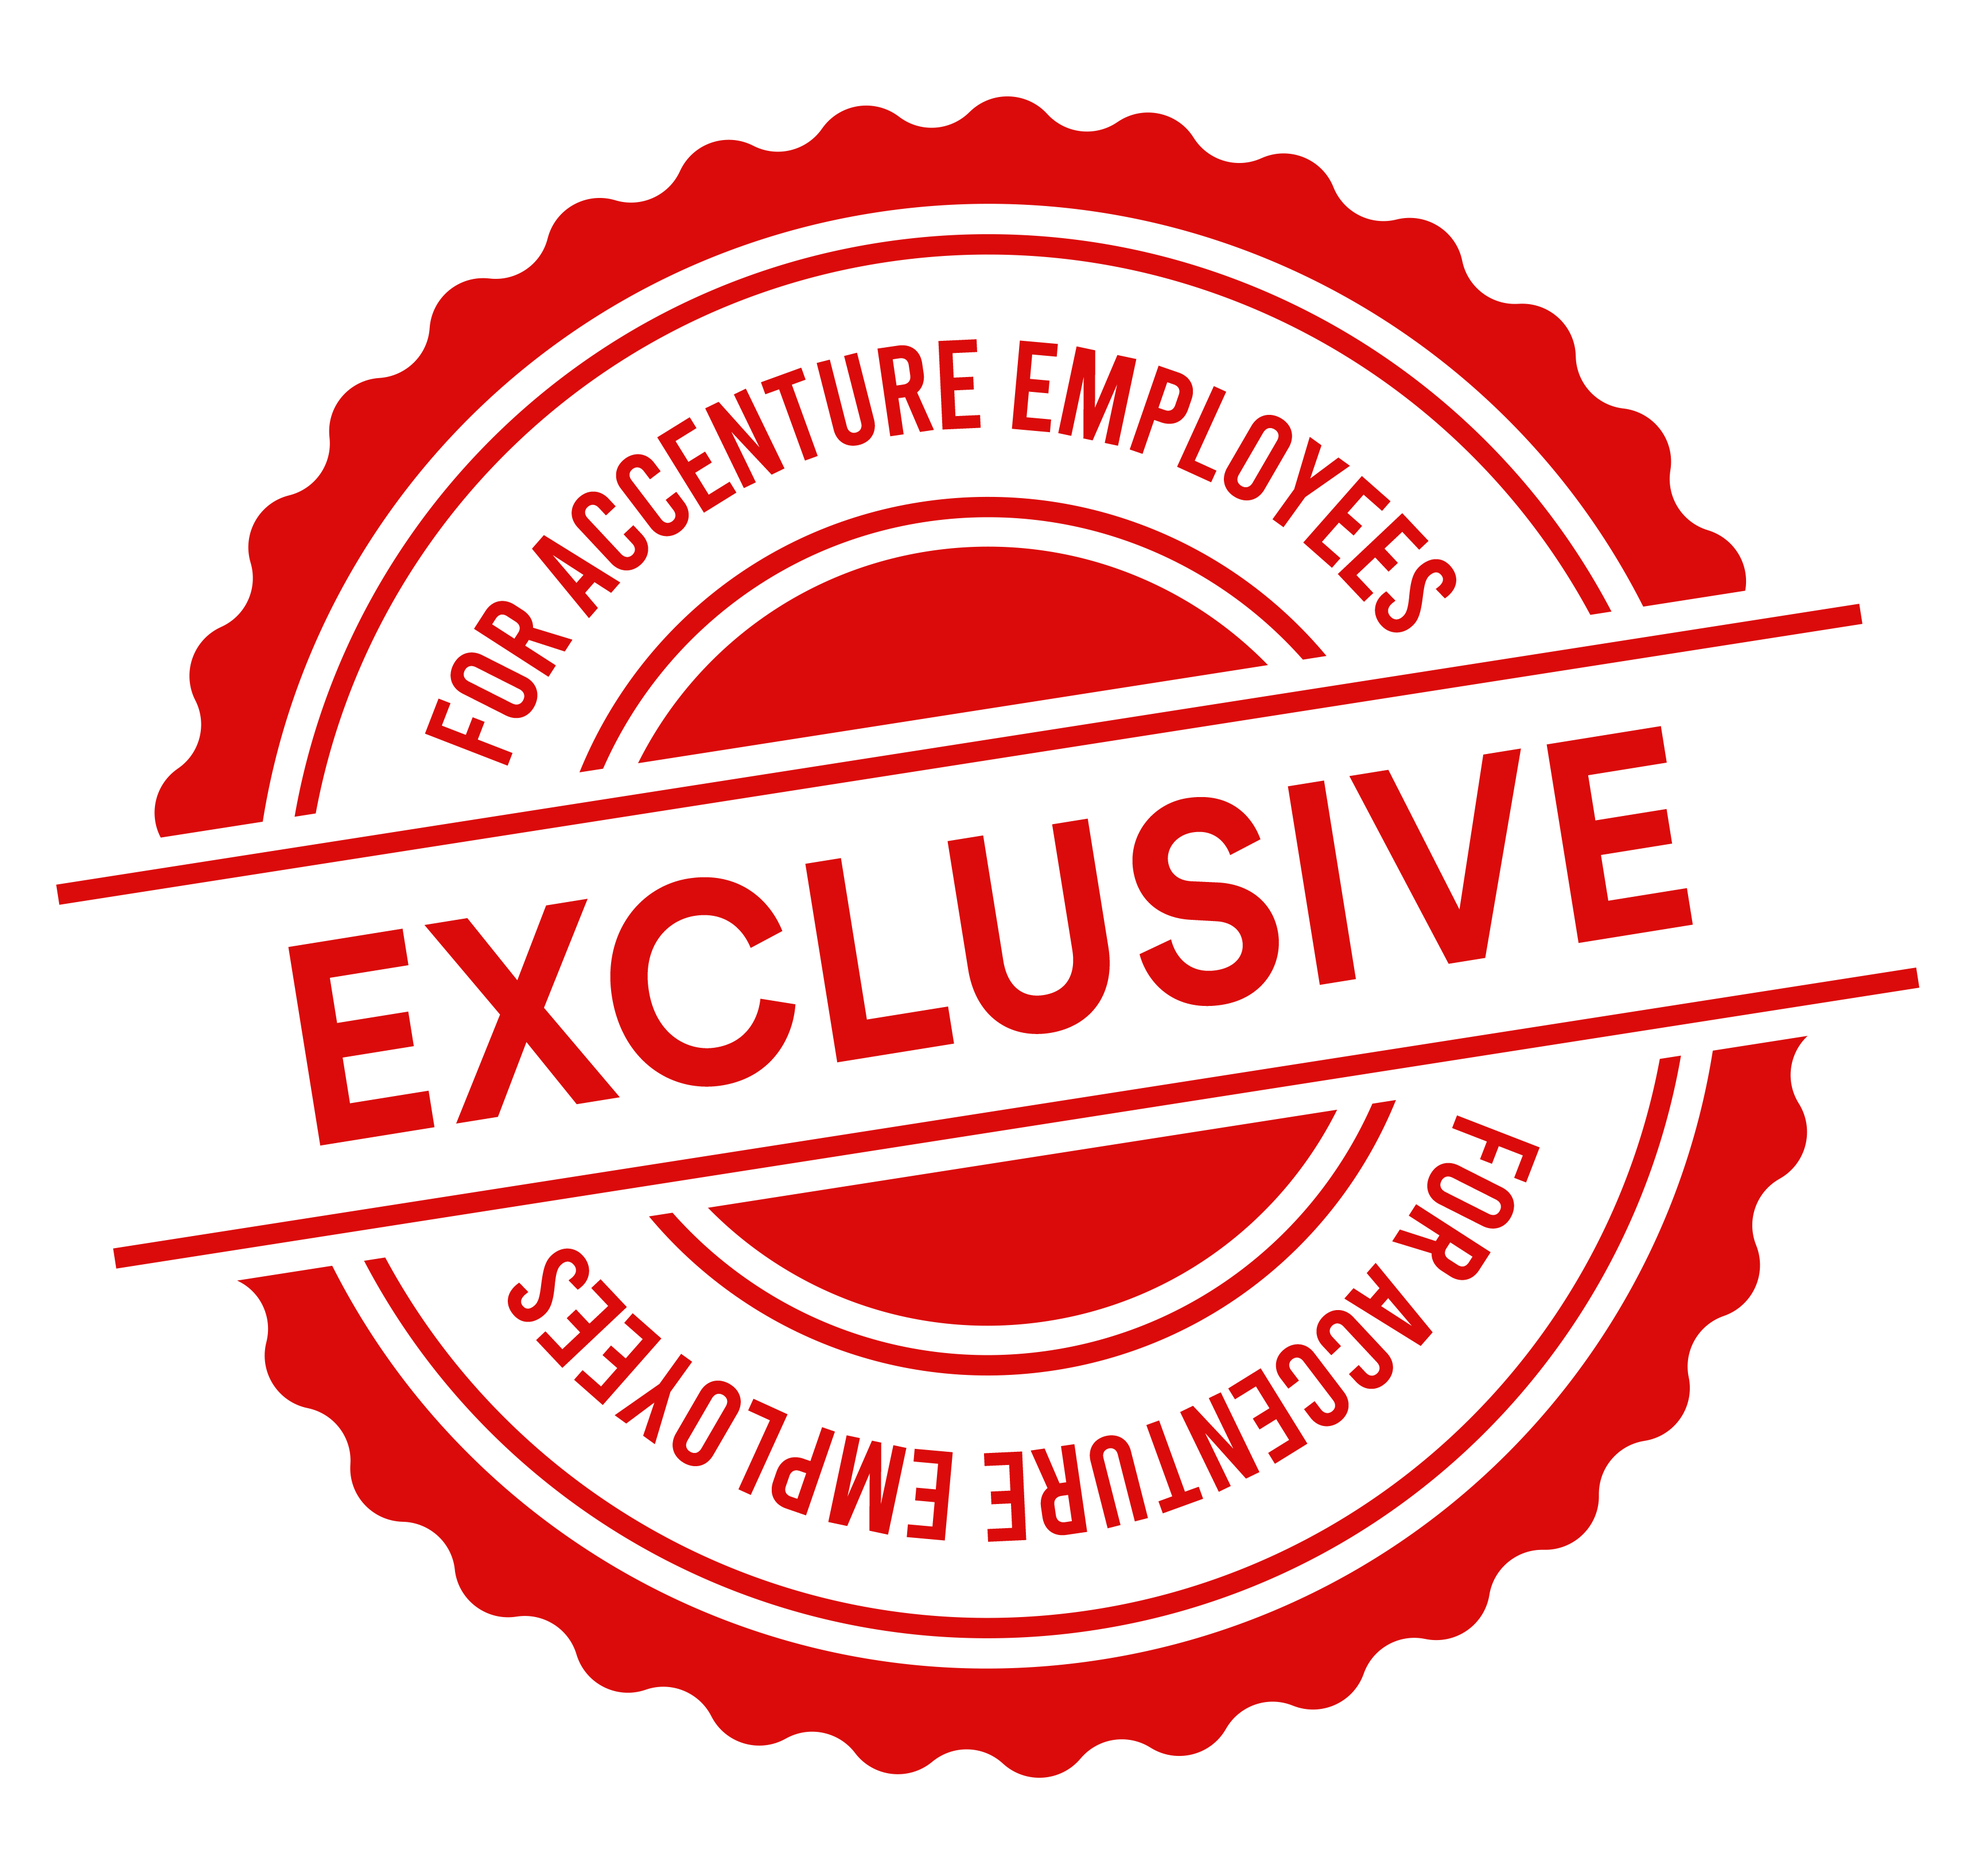
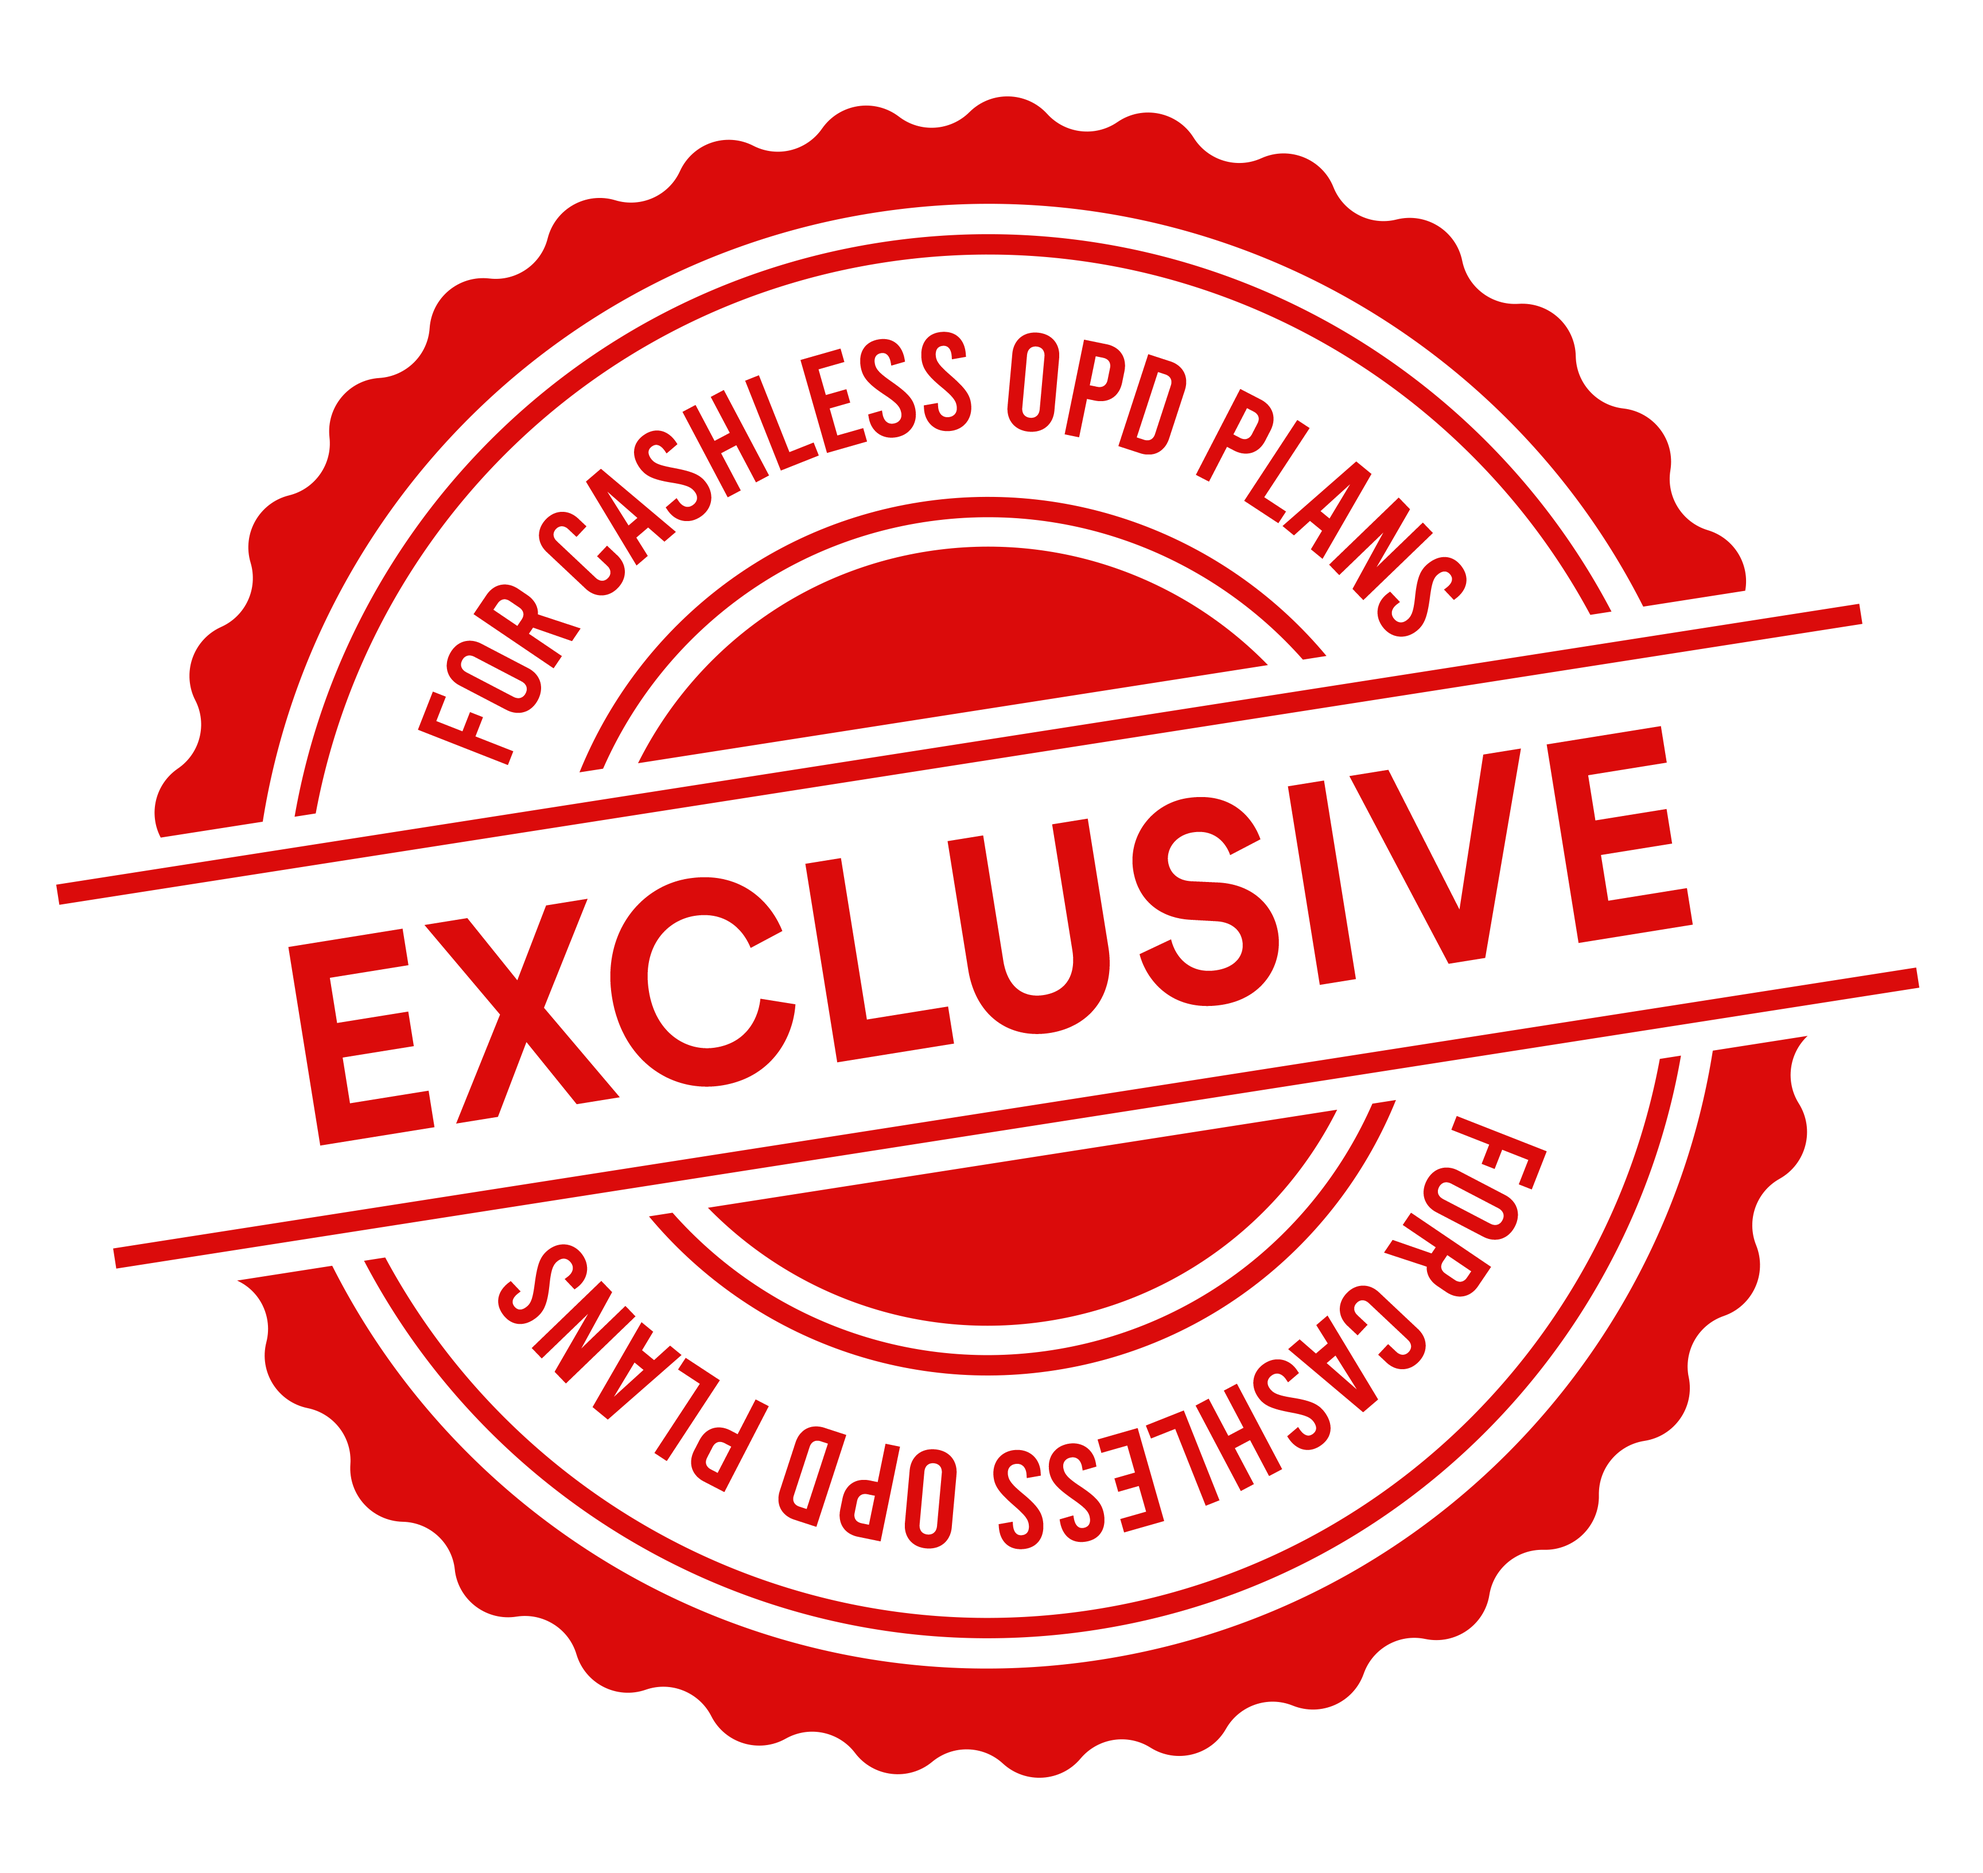
accenture

Changed region(s): [[0.2188, 0.1562, 0.75, 0.4062], [0.25, 0.5938, 0.7812, 0.8438]]

diff --git a/plans/accenture.html b/plans/accenture.html
@@ -268,9 +268,9 @@
                 <div class="col-md-6 col-6 col-lg-6">
                     <a href="https://healthassure.in/"><img src="images/logo.png" class="logo1"></a>
                 </div>
-    <div class="col-md-6 col-lg-6 pt-4  float-right col-6">
+    <!--<div class="col-md-6 col-lg-6 pt-4  float-right col-6">
     <img src="images/accenture-logow.png" class="img-fluid logo1 float-right pl-2">
-       </div>
+       </div>-->
               </div>
 
 
@@ -279,7 +279,7 @@
          <div class="col-12 col-md-6 col-sm-12 col-lg-5 col-xl-5 mb-5">
      <div class="row">
      <div class="col-10 col-md-12 col-sm-12 col-lg-12 col-xl-12 mb-2">
-         <h2 class="pl-2 accenturehead" style="padding-bottom:0px;">Exclusive Cashless OPD Family Plan for Accenture Employees  </h2>
+         <h2 class="pl-2 accenturehead" style="padding-bottom:0px;">Exclusive Cashless OPD Family Plans </h2>
          </div>
 </div>
 <div class="row pt-5">
